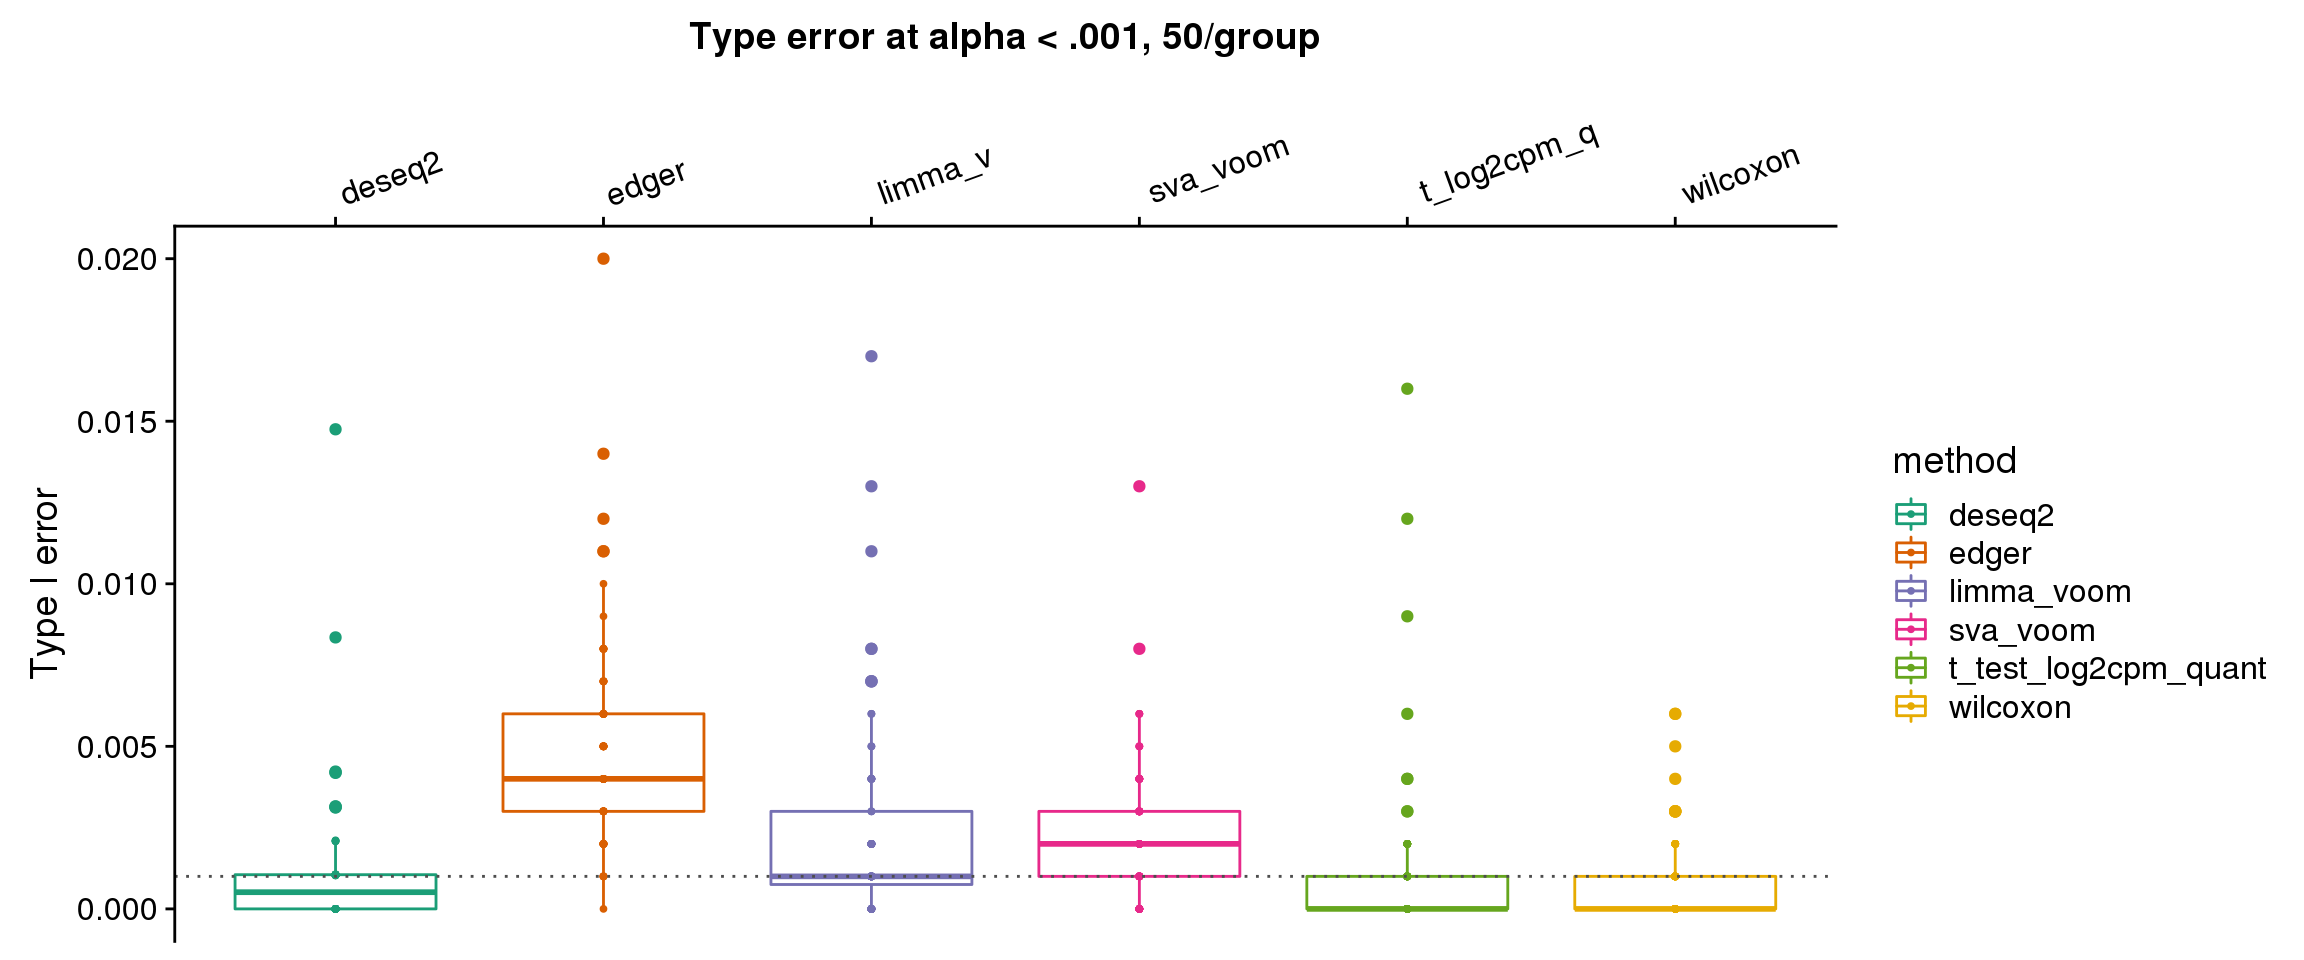
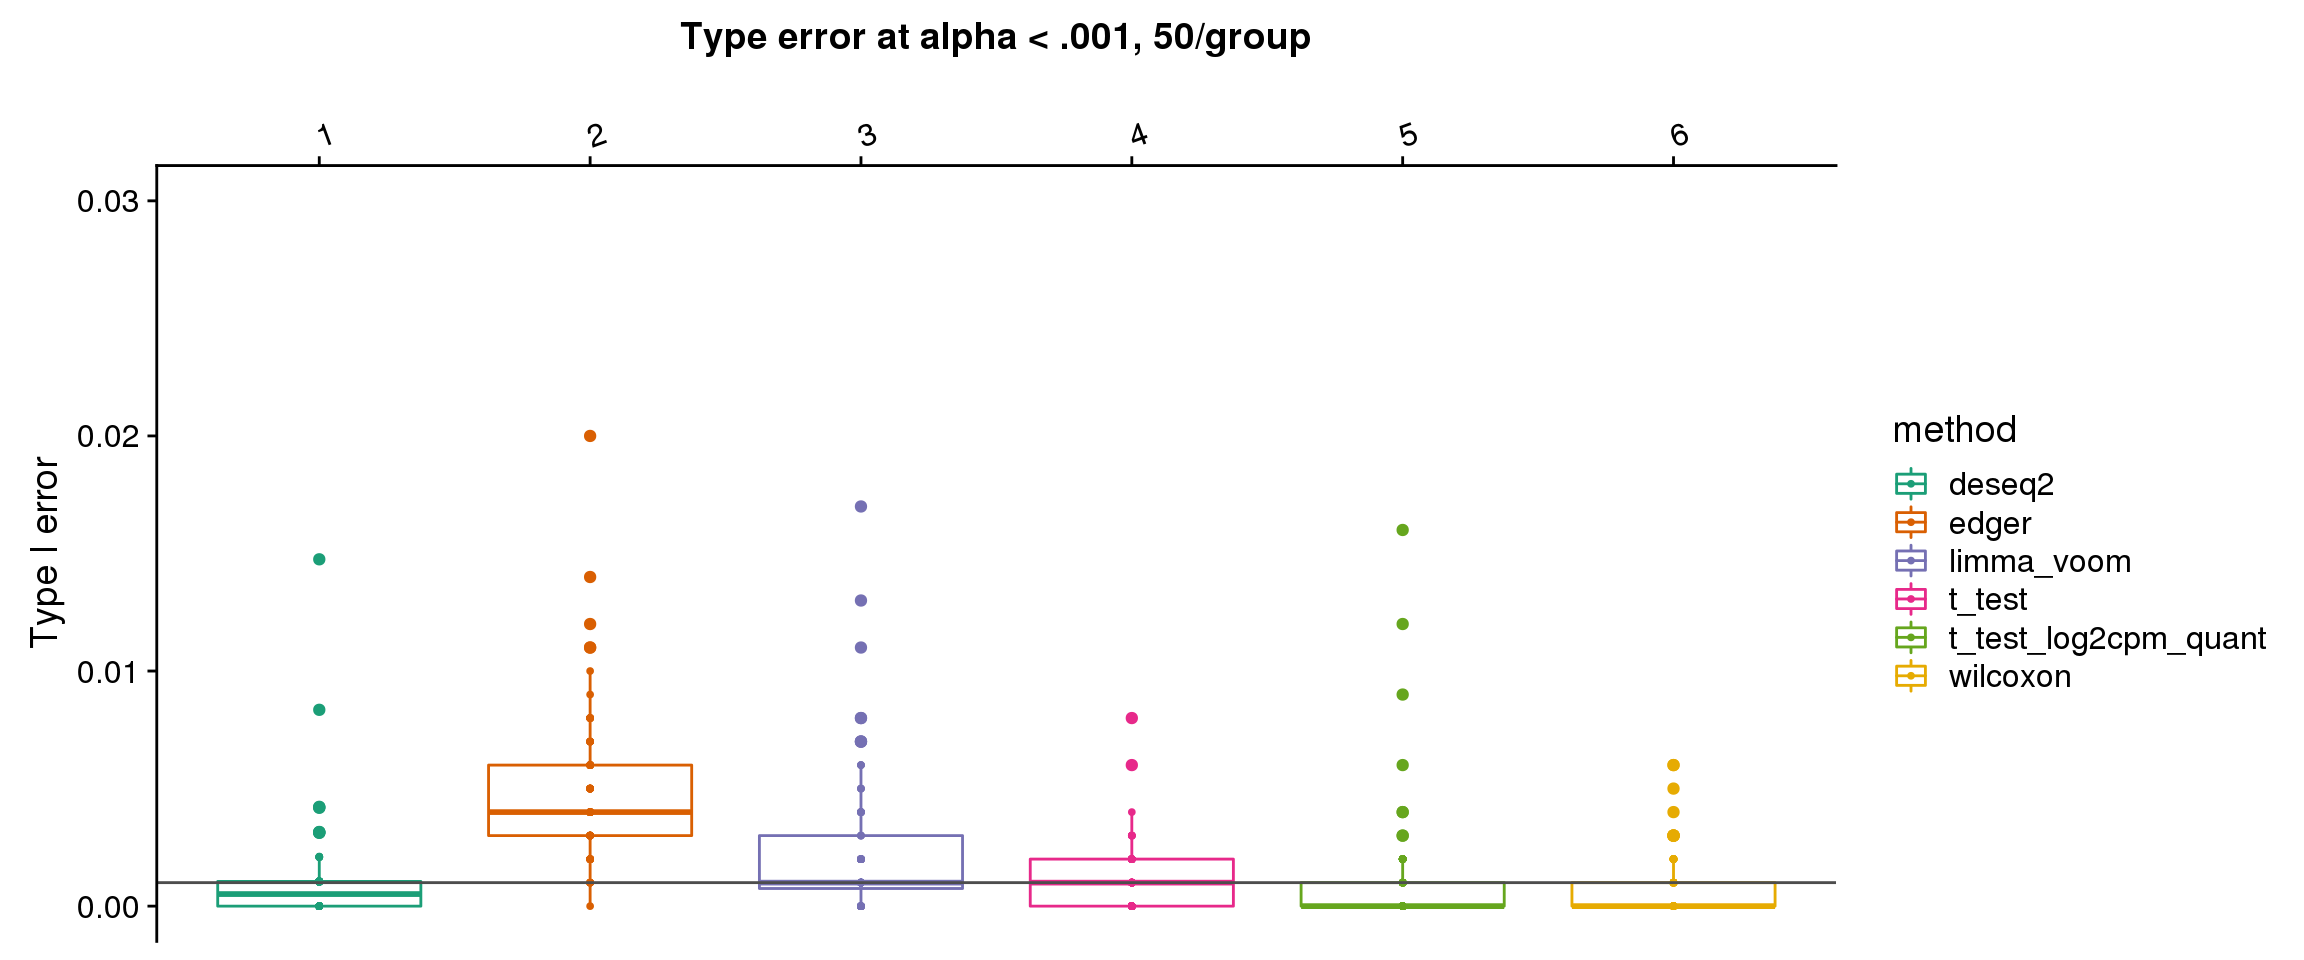
Build site.

diff --git a/docs/eval_initial_type1.html b/docs/eval_initial_type1.html
@@ -11,7 +11,7 @@
 
 <meta name="author" content="Joyce Hsiao" />
 
-<meta name="date" content="2019-04-22" />
+<meta name="date" content="2019-04-29" />
 
 <title>Initial method evaluation: type I error</title>
 
@@ -237,7 +237,7 @@ div.section {
 
 <h1 class="title toc-ignore">Initial method evaluation: type I error</h1>
 <h4 class="author"><em>Joyce Hsiao</em></h4>
-<h4 class="date"><em>2019-04-22</em></h4>
+<h4 class="date"><em>2019-04-29</em></h4>
 
 </div>
 
@@ -260,7 +260,7 @@ div.section {
 <a data-toggle="tab" href="#summary">Summary</a>
 </li>
 <li>
-<a data-toggle="tab" href="#report"> Report <span class="glyphicon glyphicon-ok text-success" aria-hidden="true"></span> </a>
+<a data-toggle="tab" href="#checks"> Checks <span class="glyphicon glyphicon-ok text-success" aria-hidden="true"></span> </a>
 </li>
 <li>
 <a data-toggle="tab" href="#versions">Past versions</a>
@@ -269,7 +269,7 @@ div.section {
 <div class="tab-content">
 <div id="summary" class="tab-pane fade in active">
 <p>
-<strong>Last updated:</strong> 2019-04-23
+<strong>Last updated:</strong> 2019-04-29
 </p>
 <p>
 <strong>Checks:</strong> <span class="glyphicon glyphicon-ok text-success" aria-hidden="true"></span> 6 <span class="glyphicon glyphicon-exclamation-sign text-danger" aria-hidden="true"></span> 0
@@ -279,11 +279,11 @@ div.section {
 </p>
 <p>
 This reproducible <a href="http://rmarkdown.rstudio.com">R Markdown</a> analysis was created with <a
-  href="https://github.com/jdblischak/workflowr">workflowr</a> (version 1.2.0). The <em>Report</em> tab describes the reproducibility checks that were applied when the results were created. The <em>Past versions</em> tab lists the development history.
+  href="https://github.com/jdblischak/workflowr">workflowr</a> (version 1.3.0). The <em>Checks</em> tab describes the reproducibility checks that were applied when the results were created. The <em>Past versions</em> tab lists the development history.
 </p>
 <hr>
 </div>
-<div id="report" class="tab-pane fade">
+<div id="checks" class="tab-pane fade">
 <div id="workflowr-checks" class="panel-group">
 <div class="panel panel-default">
 <div class="panel-heading">
@@ -348,10 +348,10 @@ This reproducible <a href="http://rmarkdown.rstudio.com">R Markdown</a> analysis
 <div class="panel panel-default">
 <div class="panel-heading">
 <p class="panel-title">
-<a data-toggle="collapse" data-parent="#workflowr-checks" href="#strongRepositoryversionstrongahrefhttpsgithubcomstephenslabdsclogfoldchangetreedac3c5c2e00f7637f290c8c3947c43b22ebc423atargetblankdac3c5ca"> <span class="glyphicon glyphicon-ok text-success" aria-hidden="true"></span> <strong>Repository version:</strong> <a href="https://github.com/stephenslab/dsc-log-fold-change/tree/dac3c5c2e00f7637f290c8c3947c43b22ebc423a" target="_blank">dac3c5c</a> </a>
+<a data-toggle="collapse" data-parent="#workflowr-checks" href="#strongRepositoryversionstrongahrefhttpsgithubcomstephenslabdsclogfoldchangetree3128918d09d2cb2503dd53abe0482fee6756c657targetblank3128918a"> <span class="glyphicon glyphicon-ok text-success" aria-hidden="true"></span> <strong>Repository version:</strong> <a href="https://github.com/stephenslab/dsc-log-fold-change/tree/3128918d09d2cb2503dd53abe0482fee6756c657" target="_blank">3128918</a> </a>
 </p>
 </div>
[2 lines of base64/hex data omitted]
 <div class="panel-body">
 <p>
 Great! You are using Git for version control. Tracking code development and connecting the code version to the results is critical for reproducibility. The version displayed above was the version of the Git repository at the time these results were generated. <br><br> Note that you need to be careful to ensure that all relevant files for the analysis have been committed to Git prior to generating the results (you can use <code>wflow_publish</code> or <code>wflow_git_commit</code>). workflowr only checks the R Markdown file, but you know if there are other scripts or data files that it depends on. Below is the status of the Git repository when the results were generated:
@@ -368,7 +368,6 @@ Ignored files:
     Ignored:    output/
 
 Untracked files:
-    Untracked:  analysis/eval_initial_power.Rmd
     Untracked:  analysis/eval_initial_type1_libsize.Rmd
     Untracked:  dsc/Rplots.pdf
 
@@ -419,6 +418,40 @@ Message
 Rmd
 </td>
 <td>
+<a href="https://github.com/stephenslab/dsc-log-fold-change/blob/3128918d09d2cb2503dd53abe0482fee6756c657/analysis/eval_initial_type1.Rmd" target="_blank">3128918</a>
+</td>
+<td>
+Joyce Hsiao
+</td>
+<td>
+2019-04-29
+</td>
+<td>
+add log2 type I error
+</td>
+</tr>
+<tr>
+<td>
+html
+</td>
+<td>
+<a href="https://rawcdn.githack.com/stephenslab/dsc-log-fold-change/5514b7cf54ba8262a2cc9279294d53ea4d004c5a/docs/eval_initial_type1.html" target="_blank">5514b7c</a>
+</td>
+<td>
+Joyce Hsiao
+</td>
+<td>
+2019-04-23
+</td>
+<td>
+Build site.
+</td>
+</tr>
+<tr>
+<td>
+Rmd
+</td>
+<td>
 <a href="https://github.com/stephenslab/dsc-log-fold-change/blob/dac3c5c2e00f7637f290c8c3947c43b22ebc423a/analysis/eval_initial_type1.Rmd" target="_blank">dac3c5c</a>
 </td>
 <td>
@@ -460,12 +493,12 @@ initial type I error eval results
 
 library(dscrutils)
 library(tidyverse)</code></pre>
-<pre><code>── Attaching packages ────────────────────────────────── tidyverse 1.2.1 ──</code></pre>
+<pre><code>── Attaching packages ───────────────────────────────────────────────────────────── tidyverse 1.2.1 ──</code></pre>
 <pre><code>✔ ggplot2 3.1.0       ✔ purrr   0.3.2  
 ✔ tibble  2.1.1       ✔ dplyr   0.8.0.1
 ✔ tidyr   0.8.3       ✔ stringr 1.3.1  
 ✔ readr   1.3.1       ✔ forcats 0.3.0  </code></pre>
-<pre><code>── Conflicts ───────────────────────────────────── tidyverse_conflicts() ──
+<pre><code>── Conflicts ──────────────────────────────────────────────────────────────── tidyverse_conflicts() ──
 ✖ dplyr::filter() masks stats::filter()
 ✖ dplyr::lag()    masks stats::lag()</code></pre>
 <p>extract dsc output and get p-values, q-values, true signals, etc.</p>
@@ -530,24 +563,146 @@ make_plots &lt;- function(res, alpha, labels,
 library(cowplot)
 levels(factor(res_merge$method))</code></pre>
 <pre><code>[1] &quot;deseq2&quot;               &quot;edger&quot;                &quot;limma_voom&quot;          
-[4] &quot;sva_voom&quot;             &quot;t_test_log2cpm_quant&quot; &quot;wilcoxon&quot;            </code></pre>
-<pre class="r"><code>labels &lt;- c(&quot;deseq2&quot;, &quot;edger&quot;, &quot;limma_v&quot;, &quot;sva_voom&quot;, &quot;t_log2cpm_q&quot;, &quot;wilcoxon&quot;)
-
-# title &lt;- ggdraw() + draw_label(&quot;Type I error at alpha &lt; .001 \n n: 50/group&quot;,
-#                                fontface=&#39;bold&#39;)
-p1 &lt;- make_plots(res_merge, alpha=.001,
+[4] &quot;t_test&quot;               &quot;t_test_log2cpm_quant&quot; &quot;wilcoxon&quot;            </code></pre>
+<pre class="r"><code>p1 &lt;- make_plots(res_merge, alpha=.001,
                  args=list(n1=50, labels=labels)) + 
-                ggtitle(&quot;Type error at alpha &lt; .001, 50/group&quot;) + #ylim(0,.02) +
-                geom_hline(yintercept=.001, col=&quot;gray30&quot;, lty=3)
+                ggtitle(&quot;Type error at alpha &lt; .001, 50/group&quot;) + ylim(0,.03) +
+                geom_hline(yintercept=.001, col=&quot;gray30&quot;, lty=1) 
 p1</code></pre>
 <p><img src="figure/eval_initial_type1.Rmd/unnamed-chunk-3-1.png" width="1152" style="display: block; margin: auto;" /></p>
-<pre class="r"><code>p2 &lt;- make_plots(res_merge, alpha=.001,
+<p>
+<button type="button" class="btn btn-default btn-xs btn-workflowr btn-workflowr-fig" data-toggle="collapse" data-target="#fig-unnamed-chunk-3-1">
+Past versions of unnamed-chunk-3-1.png
+</button>
+</p>
+<div id="fig-unnamed-chunk-3-1" class="collapse">
+<div class="table-responsive">
+<table class="table table-condensed table-hover">
+<thead>
+<tr>
+<th>
+Version
+</th>
+<th>
+Author
+</th>
+<th>
+Date
+</th>
+</tr>
+</thead>
+<tbody>
+<tr>
+<td>
+<a href="https://github.com/stephenslab/dsc-log-fold-change/blob/5514b7cf54ba8262a2cc9279294d53ea4d004c5a/docs/figure/eval_initial_type1.Rmd/unnamed-chunk-3-1.png" target="_blank">5514b7c</a>
+</td>
+<td>
+Joyce Hsiao
+</td>
+<td>
+2019-04-23
+</td>
+</tr>
+</tbody>
+</table>
+</div>
+</div>
+<pre class="r"><code># # excluded edger
+# labels &lt;- c(&quot;deseq2&quot;, &quot;limma_v&quot;, &quot;t_test&quot;, &quot;t_log2cpm_q&quot;, &quot;wilcoxon&quot;)
+# p1 &lt;- make_plots(subset(res_merge, method!=&quot;edger&quot;), alpha=.001,
+#                  args=list(n1=50, labels=labels)) + 
+#                 ggtitle(&quot;Type error at alpha &lt; .001, 50/group&quot;) + ylim(0,.02) +
+#                 geom_hline(yintercept=.001, col=&quot;gray30&quot;, lty=3) 
+# p1
+
+p2 &lt;- make_plots(res_merge, alpha=.001,
                  args=list(n1=250, labels=labels)) + 
-                ggtitle(&quot;Type error at alpha &lt; .001, 250/group&quot;) + #ylim(0,.02) +
+                ggtitle(&quot;Type error at alpha &lt; .001, 250/group&quot;) + ylim(0,.03) +
                 geom_hline(yintercept=.001, col=&quot;gray30&quot;, lty=3)
 p2</code></pre>
 <p><img src="figure/eval_initial_type1.Rmd/unnamed-chunk-3-2.png" width="1152" style="display: block; margin: auto;" /></p>
-<br> <br>
+<p>
+<button type="button" class="btn btn-default btn-xs btn-workflowr btn-workflowr-fig" data-toggle="collapse" data-target="#fig-unnamed-chunk-3-2">
+Past versions of unnamed-chunk-3-2.png
+</button>
+</p>
+<div id="fig-unnamed-chunk-3-2" class="collapse">
+<div class="table-responsive">
+<table class="table table-condensed table-hover">
+<thead>
+<tr>
+<th>
+Version
+</th>
+<th>
+Author
+</th>
+<th>
+Date
+</th>
+</tr>
+</thead>
+<tbody>
+<tr>
+<td>
+<a href="https://github.com/stephenslab/dsc-log-fold-change/blob/5514b7cf54ba8262a2cc9279294d53ea4d004c5a/docs/figure/eval_initial_type1.Rmd/unnamed-chunk-3-2.png" target="_blank">5514b7c</a>
+</td>
+<td>
+Joyce Hsiao
+</td>
+<td>
+2019-04-23
+</td>
+</tr>
+</tbody>
+</table>
+</div>
+</div>
+<p>log2 scale</p>
+<pre class="r"><code>make_plots_log2 &lt;- function(res, alpha, labels,
+                       args=list(n1, labels)) {
+  n_methods &lt;- length(unique(res$method))
+  cols &lt;- RColorBrewer::brewer.pal(n_methods,name=&quot;Dark2&quot;)
+  res %&gt;% filter(n1==args$n1) %&gt;% 
+    group_by(method, seed) %&gt;%
+    summarise(type1=mean(pval&lt;alpha, na.rm=T), nvalid=sum(!is.na(pval))) %&gt;%
+#    group_by(method) %&gt;%
+    # summarise(mn=mean(type1, na.rm=T), 
+    #           n=sum(!is.na(type1)), se=sd(type1, na.rm=T)/sqrt(n)) %&gt;%
+    ggplot(., aes(x=method, y=log2(type1), col=method)) +
+        # geom_errorbar(aes(ymin=mn+se, ymax=mn-se), width=.3) + 
+        geom_boxplot() + geom_point(size=.7) + xlab(&quot;&quot;) +
+      scale_x_discrete(position = &quot;top&quot;,
+                       labels=args$labels) +
+      scale_color_manual(values=cols) +
+      theme(axis.text.x=element_text(angle = 20, vjust = -.3, hjust=-.1))
+}
+
+library(cowplot)
+levels(factor(res_merge$method))</code></pre>
+<pre><code>[1] &quot;deseq2&quot;               &quot;edger&quot;                &quot;limma_voom&quot;          
+[4] &quot;t_test&quot;               &quot;t_test_log2cpm_quant&quot; &quot;wilcoxon&quot;            </code></pre>
+<pre class="r"><code>labels &lt;- c(&quot;deseq2&quot;, &quot;edger&quot;, &quot;limma_v&quot;, &quot;t_test&quot;, &quot;t_log2cpm_q&quot;, &quot;wilcoxon&quot;)
+
+p1 &lt;- make_plots_log2(res_merge, alpha=.001,
+                 args=list(n1=50, labels=labels)) + 
+                ggtitle(&quot;Type I error at alpha &lt; .001, 50/group&quot;) + #ylim(0,.03) +
+                geom_hline(yintercept=log2(.001), col=&quot;gray30&quot;, lty=3) +
+                ylab(&quot;log2 type I error&quot;) 
+p1</code></pre>
+<p><img src="figure/eval_initial_type1.Rmd/unnamed-chunk-4-1.png" width="672" style="display: block; margin: auto;" /></p>
+<pre class="r"><code># a &lt;- res_merge[res_merge$n1==50 &amp; res_merge$method==&quot;wilcoxon&quot;,] %&gt;%
+#   group_by(seed) %&gt;%
+#   summarise(type1=mean(pval&lt;.001, na.rm=T), nvalid=sum(!is.na(pval)))
+
+p2 &lt;- make_plots_log2(res_merge, alpha=.001,
+                 args=list(n1=250, labels=labels)) + 
+                ggtitle(&quot;Type error at alpha &lt; .001, 250/group&quot;) + 
+                geom_hline(yintercept=log2(.001), col=&quot;gray30&quot;, lty=3) +
+                ylab(&quot;log2 type I error&quot;) 
+p2</code></pre>
+<p><img src="figure/eval_initial_type1.Rmd/unnamed-chunk-4-2.png" width="672" style="display: block; margin: auto;" /></p>
+<br>
 <p>
 <button type="button" class="btn btn-default btn-workflowr btn-workflowr-sessioninfo" data-toggle="collapse" data-target="#workflowr-sessioninfo" style="display: block;">
 <span class="glyphicon glyphicon-wrench" aria-hidden="true"></span> Session information
@@ -579,18 +734,18 @@ other attached packages:
  [9] ggplot2_3.1.0   tidyverse_1.2.1 dscrutils_0.3.8
 
 loaded via a namespace (and not attached):
- [1] Rcpp_1.0.0         RColorBrewer_1.1-2 cellranger_1.1.0  
+ [1] Rcpp_1.0.1         RColorBrewer_1.1-2 cellranger_1.1.0  
  [4] plyr_1.8.4         compiler_3.5.1     pillar_1.3.1      
- [7] git2r_0.23.0       workflowr_1.2.0    tools_3.5.1       
+ [7] git2r_0.23.0       workflowr_1.3.0    tools_3.5.1       
 [10] digest_0.6.18      lubridate_1.7.4    jsonlite_1.6      
 [13] evaluate_0.12      nlme_3.1-137       gtable_0.2.0      
-[16] lattice_0.20-38    pkgconfig_2.0.2    rlang_0.3.1       
+[16] lattice_0.20-38    pkgconfig_2.0.2    rlang_0.3.4       
 [19] cli_1.0.1          rstudioapi_0.10    yaml_2.2.0        
 [22] haven_1.1.2        withr_2.1.2        xml2_1.2.0        
 [25] httr_1.3.1         knitr_1.20         hms_0.4.2         
 [28] generics_0.0.2     fs_1.2.6           rprojroot_1.3-2   
 [31] grid_3.5.1         tidyselect_0.2.5   glue_1.3.0        
-[34] R6_2.3.0           readxl_1.1.0       rmarkdown_1.10    
+[34] R6_2.4.0           readxl_1.1.0       rmarkdown_1.10    
 [37] modelr_0.1.2       magrittr_1.5       whisker_0.3-2     
 [40] backports_1.1.2    scales_1.0.0       htmltools_0.3.6   
 [43] rvest_0.3.2        assertthat_0.2.0   colorspace_1.3-2  
